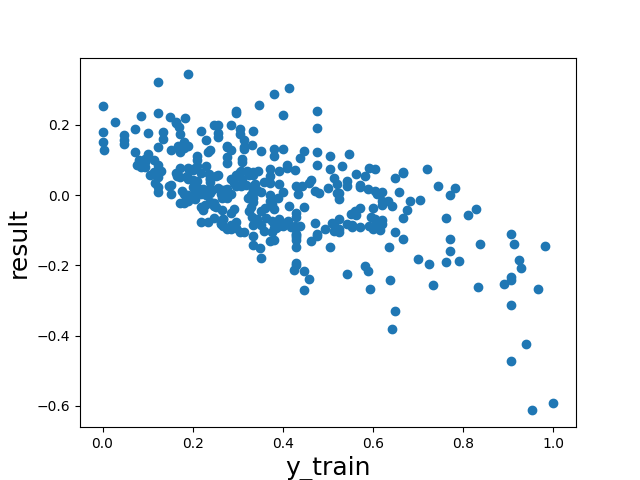
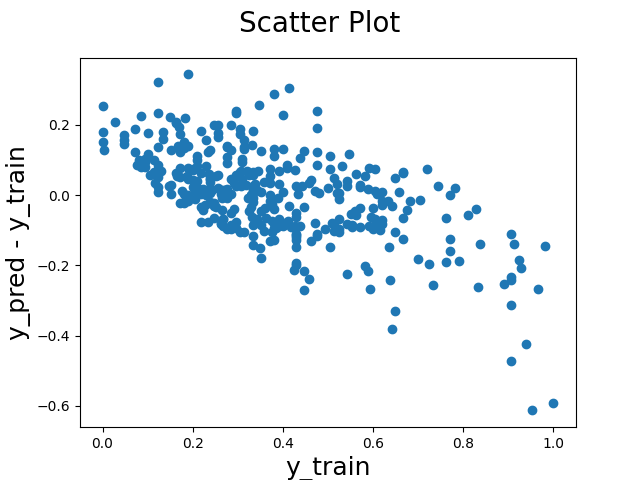
Finish Up Python Dashboard app

Changed region(s): [[0.0, 0.3125, 0.0625, 0.6562], [0.375, 0.0, 0.625, 0.0625], [0.0, 0.6875, 0.0625, 0.7188]]

diff --git a/app.py b/app.py
@@ -33,9 +33,13 @@ tab_selected_style = {
 
 app.layout = html.Div([
     html.Div([html.H1('House Price Prediction Using Linear Regression')], style={'text-align': 'center'}),
-    dcc.Tabs(id='tabs-example', value='tab-evaluate', children=[
-        dcc.Tab(label='Model Evaluation', value='tab-evaluate', style=tab_style, selected_style=tab_selected_style),
+    dcc.Tabs(id='tabs-example', value='tab-outlierAna', children=[
+        dcc.Tab(label='Outlier Analysis', value='tab-outlierAna', style=tab_style, selected_style=tab_selected_style),
+        dcc.Tab(label='Outlier Analysis Results', value='tab-outlierRes', style=tab_style, selected_style=tab_selected_style),
+        dcc.Tab(label='Exploratory Data Analytics', value='tab-explore', style=tab_style, selected_style=tab_selected_style),
+        dcc.Tab(label='Check Correlation Coefficients', value='tab-heatmap', style=tab_style, selected_style=tab_selected_style),
         dcc.Tab(label='Error Terms', value='tab-error', style=tab_style, selected_style=tab_selected_style),
+        dcc.Tab(label='Model Evaluation', value='tab-evaluate', style=tab_style, selected_style=tab_selected_style),
     ]),
     html.Div(id='tabs-example-content')
 ])
@@ -43,7 +47,29 @@ app.layout = html.Div([
 @app.callback(Output('tabs-example-content', 'children'),
               Input('tabs-example', 'value'))
 def render_content(tab):
-    if tab == 'tab-evaluate':
+    if tab == 'tab-outlierAna':
+        return html.Div([
+            html.H2('Outliers Box Plot'),
+            html.Img(src=app.get_asset_url('boxPlotBefore.png')),
+        ], style={'text-align': 'center'})
+    elif tab == 'tab-outlierRes':
+        return html.Div([
+            html.H2('After Trimming Outliers'),
+            html.Img(src=app.get_asset_url('boxPlot.png')),
+        ], style={'text-align': 'center'})
+    elif tab == 'tab-explore':
+        return html.Div([
+            html.H2('Visualize Numeric Variables By Pair Plot'),
+            html.Img(src=app.get_asset_url('pairPlot.png')),
+            html.H2('Visualize Categorical Variables'),
+            html.Img(src=app.get_asset_url('boxPlotCategorical.png')),
+        ], style={'text-align': 'center'})
+    elif tab == 'tab-heatmap':
+        return html.Div([
+            html.H2('Heat Map'),
+            html.Img(src=app.get_asset_url('heatMap.png')),
+        ], style={'text-align': 'center'})
+    elif tab == 'tab-evaluate':
         return html.Div([
             html.Br(),
             html.Br(),

diff --git a/predictHousePrice.py b/predictHousePrice.py
@@ -415,10 +415,11 @@ plt.show()
 # In[49]:
 
 
+fig = plt.figure()
 plt.scatter(y_train,res)
-fig.suptitle('Result Scatter Plot', fontsize = 20)           # Plot heading
+fig.suptitle('Scatter Plot', fontsize = 20)           # Plot heading
 plt.xlabel('y_train', fontsize = 18)                         # X-label
-plt.ylabel('result', fontsize = 18)                          # X-label
+plt.ylabel('y_pred - y_train', fontsize = 18)                          # X-label
 plt.show()
 
 
